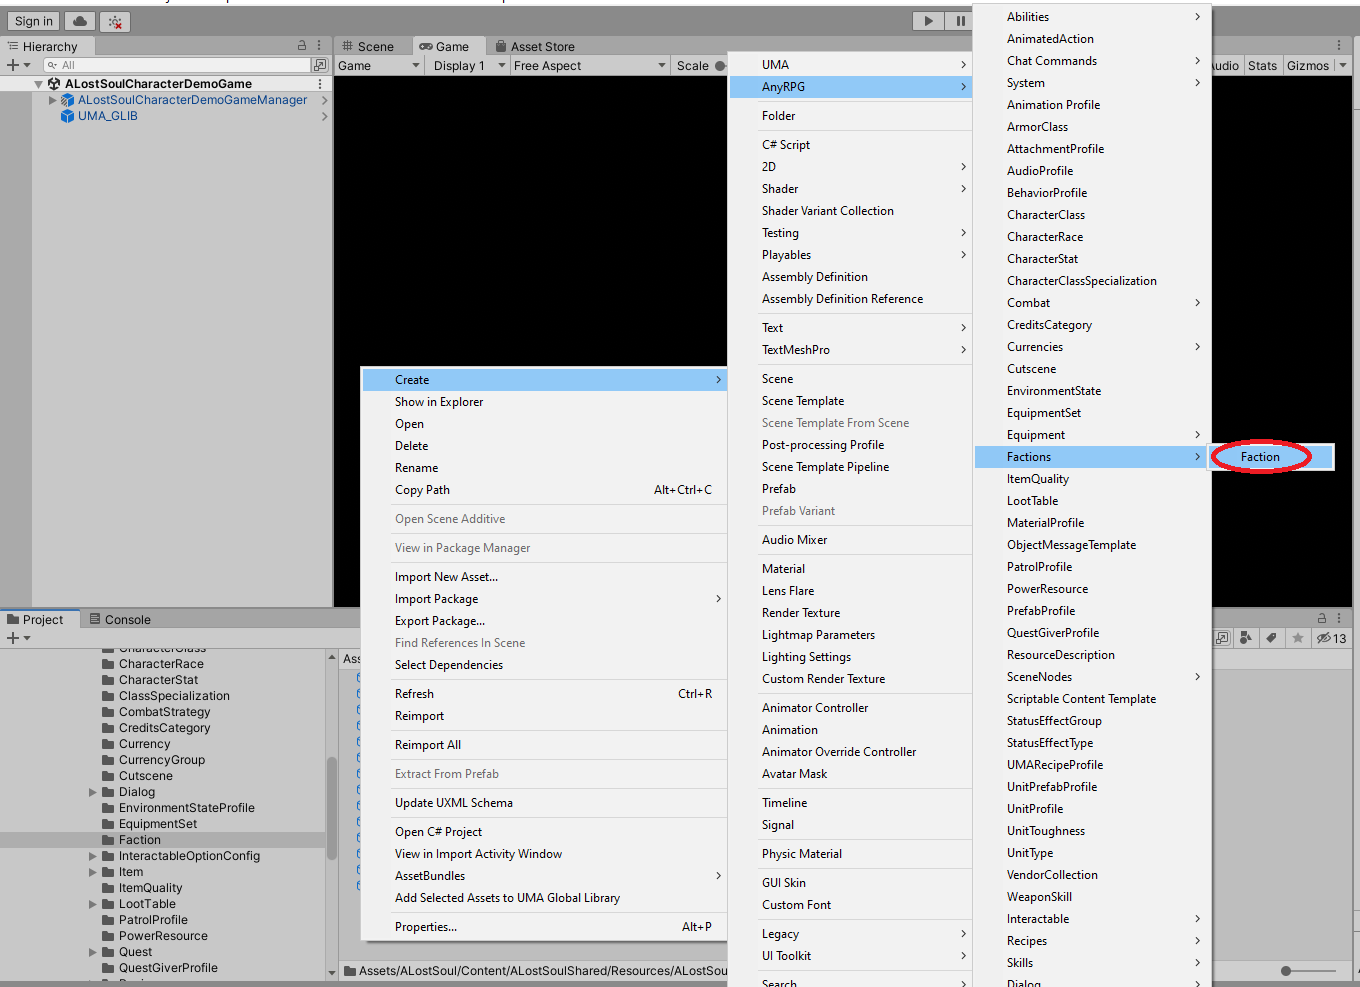
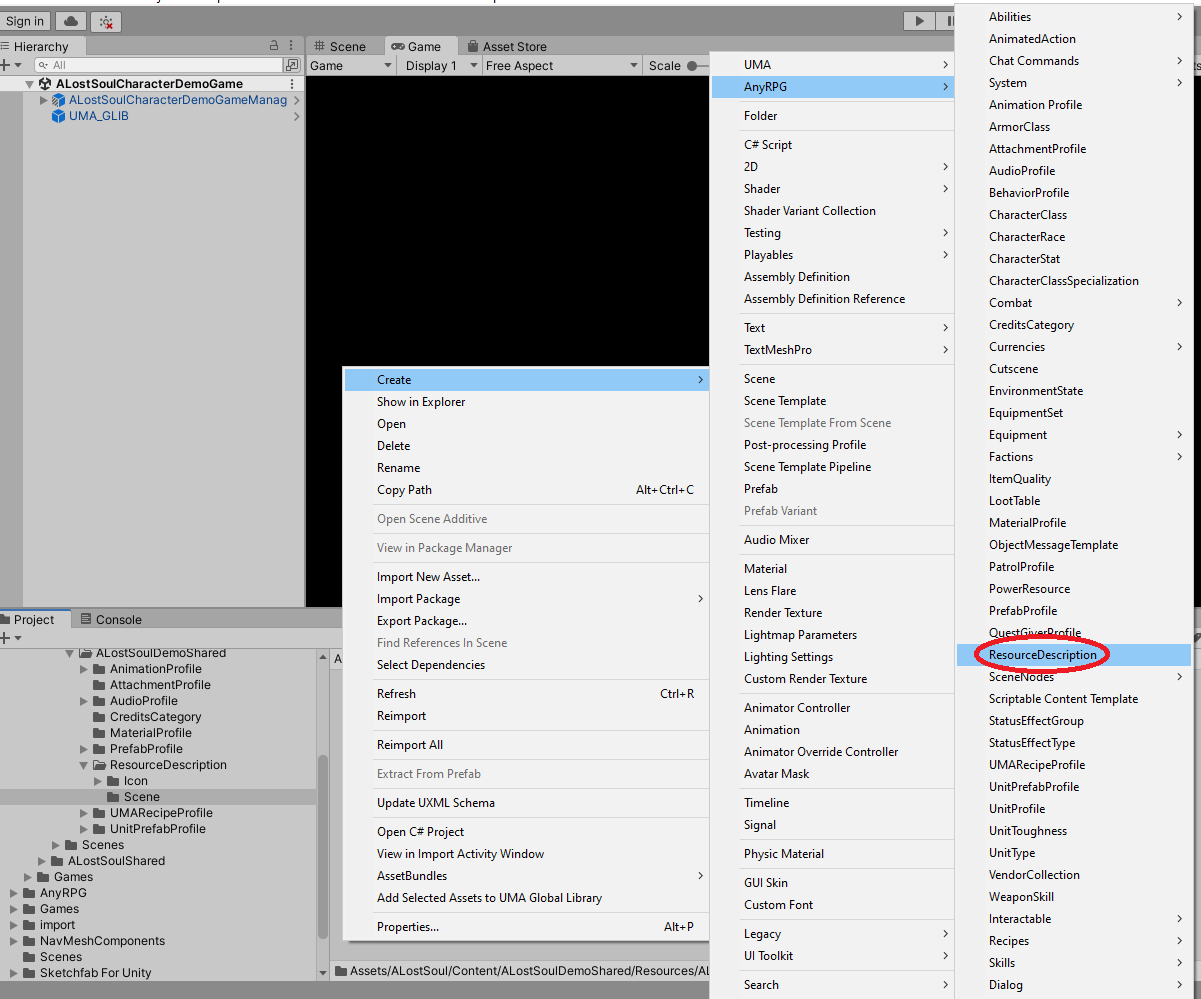
GitBook: [#55] add skill documentation

Changed region(s): [[0.0, 0.0, 1.0, 1.0], [0.4929, 0.6991, 0.5237, 0.7295]]

diff --git a/scriptable-objects/skill.md b/scriptable-objects/skill.md
@@ -1,5 +1,24 @@
+---
+description: A skill allows you to learn abilities that let you gather or craft items.
+---
+
 # Skill
 
-{% hint style="info" %}
-Coming Soon
-{% endhint %}
+## Creation
+
+To create a skill, find (or create) the _GameName/Resources/GameName/Recipe_ folder in the project tab and right click.  Choose _Create > AnyRPG > Skills > Skill_.
+
+![](../.gitbook/assets/image.png)
+
+## Properties
+
+| Name           | Description                                                                                                                                                                                                                                                            |
+| -------------- | ---------------------------------------------------------------------------------------------------------------------------------------------------------------------------------------------------------------------------------------------------------------------- |
+| Required Level | The minimum level which the character must reach to learn this skill.                                                                                                                                                                                                  |
+| Auto Learn     | If true, this skill will be automatically learned upon reaching the _Required Level_.                                                                                                                                                                                  |
+| Ability Names  | A list of [Abilities](abilities/) that will be learned when the skill is learned.  These should generally be [Gathering Abilities](abilities/gather-ability.md) or [Crafting Abilities](abilities/craft-ability.md), but that is a suggestion, not a hard requirement. |
+
+## Next Steps
+
+* Add a skill as a reward for completing a [Quest](quest.md).
+* Add a skill to a [Skill Trainer](interactable-option-configurations/skill-trainer-config.md) so the trainer can teach it.

diff --git a/scriptable-objects/scriptable-content-template.md b/scriptable-objects/scriptable-content-template.md
@@ -9,7 +9,7 @@ description: >-
 
 ## Creation
 
-Unlike most scriptable object, a scriptable object template itself is not loaded into memory because it contains configuration information for installing content.  This means it can be created in any folder and should definitely not be located in a _Resources_ folder or any subfolder of a resources folder. To create one, setup a folder that is not a child of a _Resources_ folder right click.  Choose _Create > AnyRPG > Scriptable Content Template_.
+Unlike most scriptable objects, a scriptable content template itself is not loaded into memory because it contains configuration information for installing content.  This means it can be created in any folder and should definitely not be located in a _Resources_ folder or any subfolder of a resources folder. To create one, setup a folder that is not a child of a _Resources_ folder and right click.  Choose _Create > AnyRPG > Scriptable Content Template_.
 
 ![](<../.gitbook/assets/image (111).png>)
 

diff --git a/scriptable-objects/resource-description.md b/scriptable-objects/resource-description.md
@@ -11,7 +11,7 @@ description: >-
 
 To create a resource description, find (or create) the _GameName/Resources/GameName/ResourceDescription_ folder in the project tab and right click.  Choose _Create > AnyRPG > ResourceDescription_.
 
-![](../.gitbook/assets/image.png)
+![](<../.gitbook/assets/image (98).png>)
 
 ## Properties
 

diff --git a/scriptable-objects/faction.md b/scriptable-objects/faction.md
@@ -10,7 +10,7 @@ description: >-
 
 To create a faction, find (or create) the _GameName/Resources/GameName/Faction_ folder in the project tab and right click.  Choose _Create > AnyRPG > Factions > Faction_.
 
-![](<../.gitbook/assets/image (98).png>)
+![](<../.gitbook/assets/image (98) (2).png>)
 
 
 
